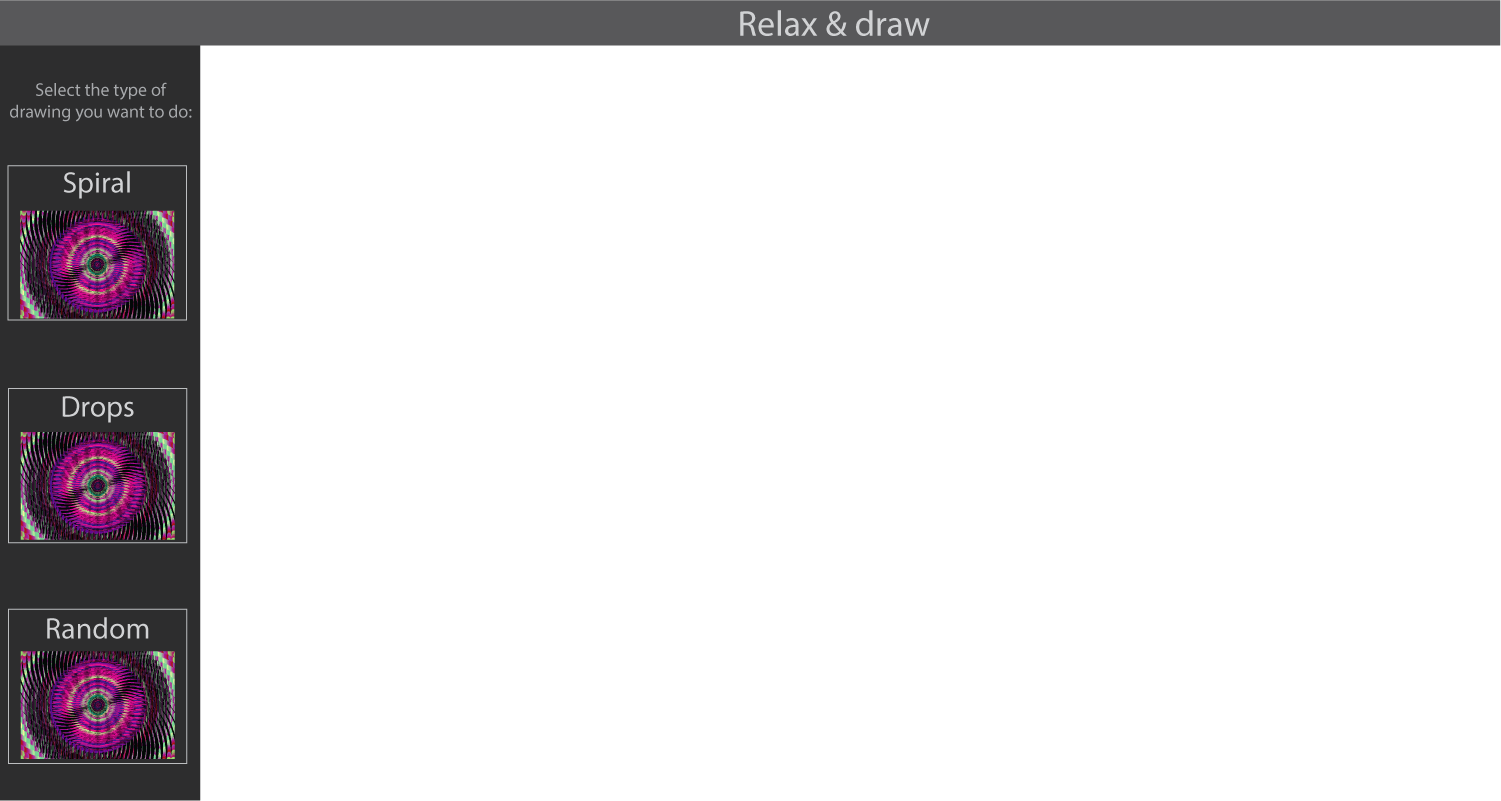
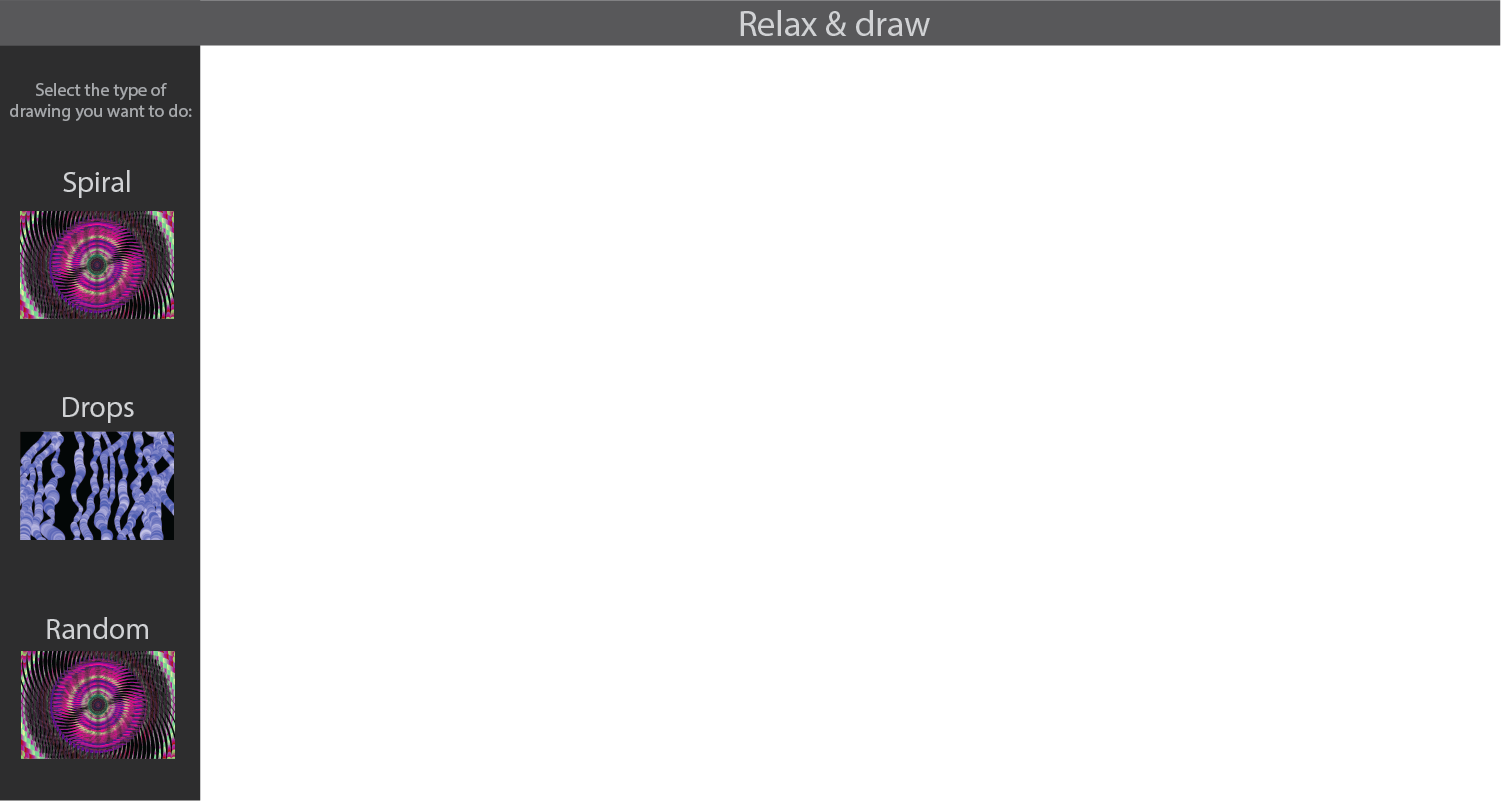
Ex8: added a start page and changed conditionals in draw() so the menu image is not drawn when we are on the start page

diff --git a/Exercises/Exercise8/js/script.js b/Exercises/Exercise8/js/script.js
@@ -18,7 +18,8 @@ let circle;
 let spray;
 let movingShapes = [];
 let drops = [];
-// Image fot the options menu
+// Images
+let startPageImage;
 let menuImage;
 // Position of the spiral option in the menu
 let spiralOption = {
@@ -38,6 +39,7 @@ let dropsOption = {
 function preload() {
   // Load image for the menu
   menuImage = loadImage("assets/images/optionsMenu.png");
+  startPageImage = loadImage("assets/images/startPage.png");
   //music = loadSound("assets/sounds/music.mp3");
 }
 
@@ -57,8 +59,6 @@ function setup() {
   createCanvas(1500, 800);
   // Draw a black background
   background(0);
-  // Display the menu image
-  image(menuImage, 0, 0);
 }
 
 // draw()
@@ -68,49 +68,52 @@ function draw() {
   if (state === "TITLE") {
     displayTitlePage();
   }
-  // If state is Drawing, show the menu
-  else if (state === "DRAWING") {
-    image(menuImage, 0, 0);
-  }
-  // If the state is Spiral...
-  else if (state === "SPIRAL") {
-    // Move the shapes in spiral and handle inputs to change color
-    for (let i = 0; i < movingShapes.length; i++) {
-      movingShapes[i].displaySpiral();
-      movingShapes[i].changeColor();
+  // Else do all these things and draw the menu image over it
+  else {
+    // If state is Drawing, show the menu
+    if (state === "DRAWING") {
+      image(menuImage, 0, 0, width, height);
     }
-    // If the key "enter" is down, display the shape as a spray
-    if (keyIsDown(13)) {
-      spray.displayShape();
-    }
-    // If the key "enter" is not down, display the shape as a regular ellipse
-    else {
-      circle.displayShape();
-    }
-  }
-  // If the state is Drops...
-  else if (state === "DROPS") {
-    // And if the drops are not moving yet...
-    if (dropsMoving === false) {
-      // Create 3 drop objects, add them in the array and display them on screen
-      for (let i = 0; i < 3; i++) {
-        let drop = new Drop;
-        drops.push(drop);
-        drops[i].displayShape();
+    // If the state is Spiral...
+    else if (state === "SPIRAL") {
+      // Move the shapes in spiral and handle inputs to change color
+      for (let i = 0; i < movingShapes.length; i++) {
+        movingShapes[i].displaySpiral();
+        movingShapes[i].changeColor();
       }
-      // Change state so drops move and are no longer displayed
-      dropsMoving = true;
-    }
-    // If the drops are displayed and ready to move...
-    else if (dropsMoving === true) {
-      // move all of them
-      for (let i=0; i < drops.length; i++) {
-        drops[i].moveDrop();
+      // If the key "enter" is down, display the shape as a spray
+      if (keyIsDown(13)) {
+        spray.displayShape();
+      }
+      // If the key "enter" is not down, display the shape as a regular ellipse
+      else {
+        circle.displayShape();
       }
     }
+    // If the state is Drops...
+    else if (state === "DROPS") {
+      // And if the drops are not moving yet...
+      if (dropsMoving === false) {
+        // Create 3 drop objects, add them in the array and display them on screen
+        for (let i = 0; i < 3; i++) {
+          let drop = new Drop;
+          drops.push(drop);
+          drops[i].displayShape();
+        }
+        // Change state so drops move and are no longer displayed
+        dropsMoving = true;
+      }
+      // If the drops are displayed and ready to move...
+      else if (dropsMoving === true) {
+        // move all of them
+        for (let i = 0; i < drops.length; i++) {
+          drops[i].moveDrop();
+        }
+      }
+    }
+    // Display the menu as an image over the user's drawing
+    image(menuImage, 0, 0, width, height);
   }
-  // Display the menu as an image over the user's drawing
-  image(menuImage, 0, 0);
 }
 
 // mousePressed()
@@ -118,6 +121,8 @@ function draw() {
 function mousePressed() {
   // If we are on the start page...
   if (state === "TITLE") {
+    // Draw a black background
+    background(0);
     // Change the state so that the drawing option menu is displayed
     state = "DRAWING";
   }
@@ -147,5 +152,5 @@ function mousePressed() {
 // displayTitlePage()
 // Displays the start page as an image
 function displayTitlePage() {
-  console.log("Put start page here");
+  image(startPageImage, 0, 0, width, height);
 }

diff --git a/Exercises/Exercise8/js/Spray.js b/Exercises/Exercise8/js/Spray.js
@@ -1,5 +1,5 @@
 // Spray
-// A class that ectends the spiralMovement
+// A class that extends the spiralMovement
 // Displays a spray of pixels in a spiral movement
 class Spray extends SpiralMovement {
   constructor() {
